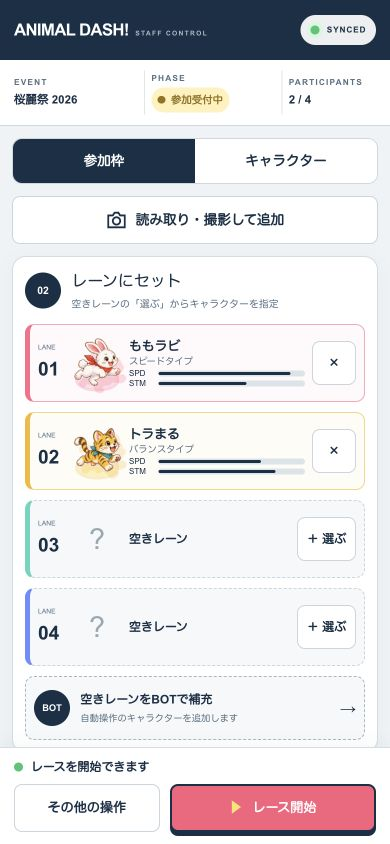
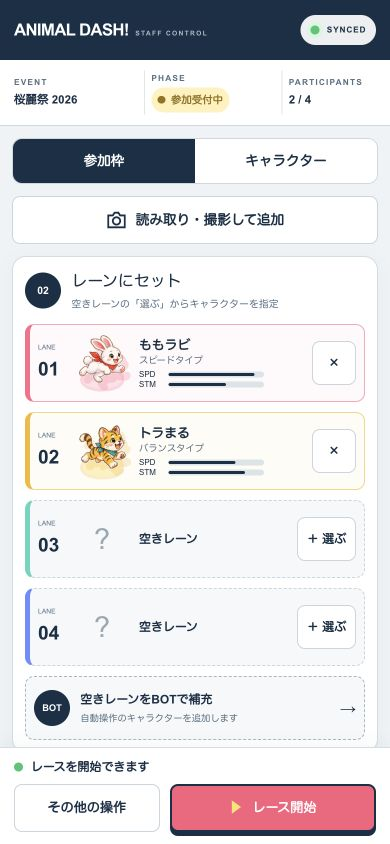
管理画面のレーン内の余白とステータスバー幅を調整

diff --git a/app/styles/admin-mobile.css b/app/styles/admin-mobile.css
@@ -64,7 +64,7 @@
   .mobile-panel-heading h1 { margin: 0; font-size: 1rem; }
   .mobile-panel-heading p { color: var(--ink-soft); margin: .25rem 0 0; font-size: .62rem; }
   .mobile-lanes { display: grid; gap: 10px; }
-  .mobile-lane { display: flex; align-items: center; gap: 7px; min-height: 78px; padding: 8px; border: 1px dashed #cbd6dc; border-left: 5px solid var(--lane); border-radius: 9px; background: #f6f8f9; }
+  .mobile-lane { display: flex; align-items: center; gap: 12px; min-height: 78px; padding: 8px; border: 1px dashed #cbd6dc; border-left: 5px solid var(--lane); border-radius: 9px; background: #f6f8f9; }
   .mobile-lane.has-racer { border-style: solid; border-color: color-mix(in srgb, var(--lane) 60%, white); border-left-color: var(--lane); background: color-mix(in srgb, var(--lane) 4%, white); }
   .mobile-lane-number { display: grid; gap: 2px; width: 27px; flex-shrink: 0; }
   .mobile-lane-number small { color: var(--ink-soft); font-size: .42rem; }
@@ -74,6 +74,7 @@
   .mobile-lane-copy > strong { display: block; font-size: .8rem; overflow-wrap: anywhere; }
   .mobile-lane-copy > strong b { font-size: .5rem; padding: .15rem .25rem; border-radius: 5px; background: var(--ink); color: white; }
   .mobile-lane-copy > small { display: block; line-height: 1.25; font-size: .58rem; color: var(--ink-soft); }
+  .mobile-lane-copy .mobile-stats { width: min(125px, 100%); margin-top: 4px; }
   .mobile-stats.is-compact > div { grid-template-columns: 1.6rem 1fr; font-size: .5rem; line-height: 1; gap: 4px; margin: 2px 0; }
   .mobile-stats.is-compact meter { height: 6px; }
   .mobile-remove { flex: 0 0 44px; height: 44px; border: 1px solid #cad5dc; border-radius: 8px; background: white; font-size: 1.1rem; }
